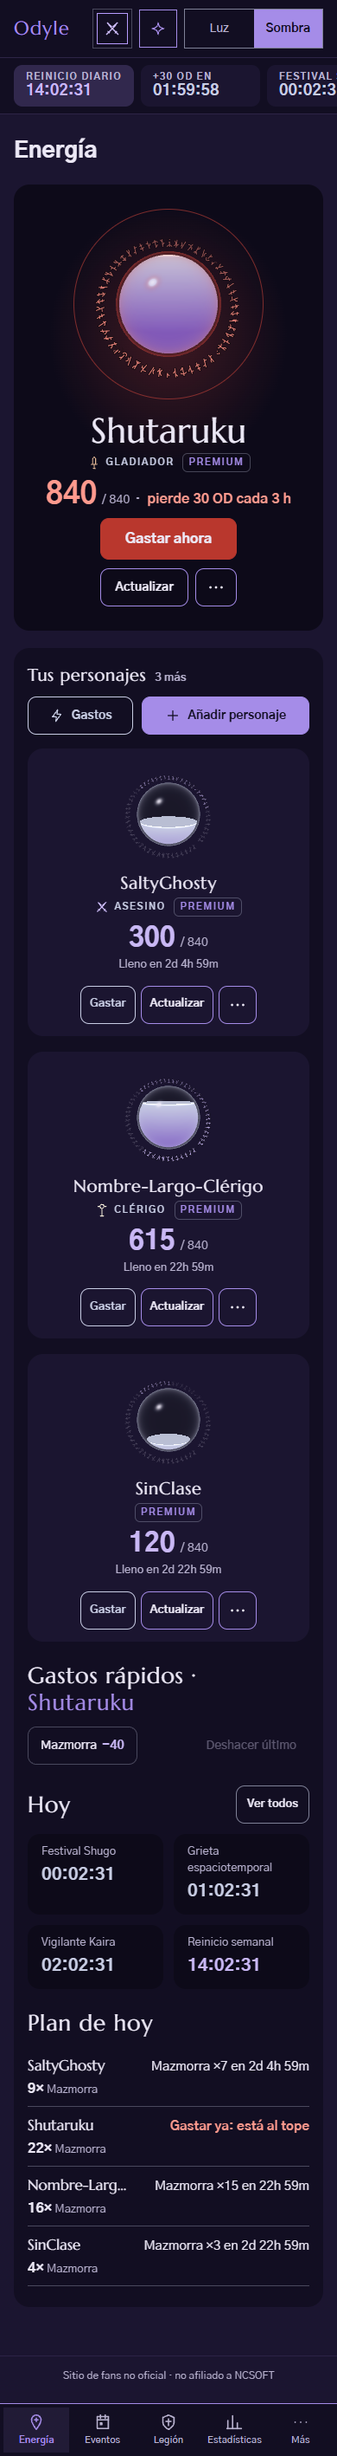
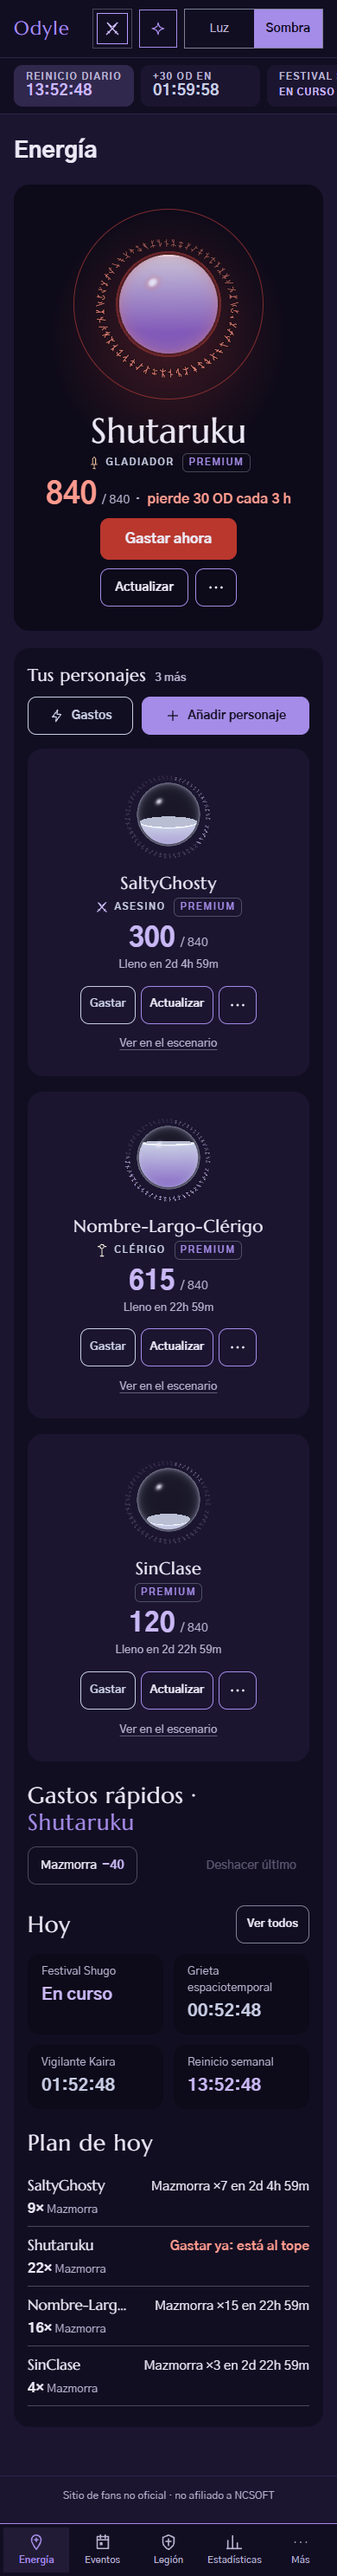
fix(energia): llevar una tarjeta al escenario con el teclado y atajos sobre el personaje del escenario

diff --git a/index.html b/index.html
@@ -227,6 +227,12 @@
   .card.tile .r-act button { min-height: 44px; padding: 0 10px; font-size: .8125rem; }
   .card.tile .r-act button.more-actions { min-width: 44px; padding: 0 10px; }
   .card.tile .r-below { width: 100%; text-align: left; }
+  /* quiet keyboard control: same as clicking the card */
+  button.to-stage { min-height: 44px; padding: 0 10px; margin-top: -4px; border: none; background: none; color: var(--muted); font-size: .8125rem; font-weight: 500;
+    text-decoration: underline; text-underline-offset: 3px; text-decoration-color: color-mix(in srgb, var(--muted) 45%, transparent); }
+  @media (hover: hover) and (pointer: fine) { button.to-stage:hover { color: var(--fg); background: none; } }
+  #stage-name:focus { outline: none; }
+  #stage-name:focus-visible { outline: 2px solid var(--sky); outline-offset: 4px; }
   @media (hover: hover) and (pointer: fine) { .card.tile:hover { background: color-mix(in srgb, var(--fg) 5%, var(--bg)); } }
   .who-sub { display: flex; flex-wrap: wrap; justify-content: center; align-items: center; gap: 4px 10px; }
   .who-sub:empty { display: none; }
@@ -1544,7 +1550,7 @@
         ...orbFor(row, { flat: flatOrb })));
 
     const text = el('div', { class: 'r-text' });
-    text.append(el('div', { class: 'who' }, el('h2', { class: 'name', title: row.name }, row.name),
+    text.append(el('div', { class: 'who' }, el('h2', { class: 'name', title: row.name, ...(stage ? { id: 'stage-name', tabindex: '-1' } : {}) }, row.name),
       el('div', { class: 'who-sub' }, cls ? el('p', { class: 'cls-name' }, classIcon(cls), cls.name) : null,
         row.account === 'premium' ? el('span', { class: 'acct-mark' }, 'Premium') : null)));
 
@@ -1666,7 +1672,9 @@
           ['Quitar', 'remove', () => { ui.pop = row.id; ui.confirmId = row.id; ui.editingId = ui.extraId = ui.notesId = null; render(); }],
         ]));
     }
-    if (!stage) { card.append(orb, text, num, meta, act, below); return card; }
+    // Keyboard way to do what a click on the card does (the article itself is not focusable).
+    const toStageBtn = readonly ? null : el('button', { type: 'button', class: 'to-stage', 'aria-label': `Ver en el escenario: ${row.name}`, onclick: () => toStage(row.id, { focus: true }) }, 'Ver en el escenario');
+    if (!stage) { card.append(orb, text, num, meta, act, below, toStageBtn); return card; }
     // Stage: «Gastar ahora» (red when someone is at the cap) leads to the quick spends of this character.
     const go = readonly || ui.readOnly || ui.noDb ? null
       : el('button', { type: 'button', class: `stage-go ${stage.tone === 'urgent' ? 'urgent' : ''}`, onclick: () => goSpend(row.id) }, 'Gastar ahora');
@@ -2575,9 +2583,15 @@
     if (e.target.closest('button, input, select, textarea, a, label, form, .menu-wrap, .r-below')) return;
     const card = e.target.closest('article[data-id]');
     if (!card) return;
-    ui.stageId = ui.selectedId = card.dataset.id;
-    if (animate && document.startViewTransition) document.startViewTransition(() => render()); else render();
+    toStage(card.dataset.id);
   });
+  // Put a character on the stage for this session; with focus, the stage name takes it (so Escape there is reachable).
+  function toStage(id, { focus = false } = {}) {
+    ui.stageId = ui.selectedId = id;
+    const done = () => { if (focus) $('stage-name')?.focus(); };
+    if (animate && document.startViewTransition) document.startViewTransition(() => render()).updateCallbackDone.then(done, done);
+    else { render(); done(); }
+  }
   $('stage').addEventListener('keydown', e => {
     if (e.key !== 'Escape' || !ui.stageId || e.target.closest('input, select, textarea, form, .menu-wrap')) return;
     e.preventDefault();
@@ -2602,7 +2616,7 @@
       const preset = state.presets[Number(e.key) - 1];
       if (!preset || !my || ui.readOnly || ui.noDb || activeTab !== 'personajes') return;
       const rows = buildView(state.characters, state.schedule, Date.now()).rows;
-      const row = rows.find(r => r.id === ui.selectedId) || rows[0];
+      const row = rows.find(r => r.id === ui.selectedId) || rows.find(r => r.id === stageNow?.id) || rows[0];
       if (!row) return;
       e.preventDefault();
       spend(row, preset);

diff --git a/i18n-strings.js b/i18n-strings.js
@@ -986,8 +986,8 @@ for (const l of Object.keys(TOPBAR)) for (const [k, v] of Object.entries(TOPBAR[
 
 // Energía «Engaste»: the stage and the character cards (2026-10-27).
 const ENERGIA = {
-  en: { '{0} más': '{0} more', '{0} está al tope': '{0} is at the cap', 'Gastar ahora': 'Spend now', Hoy: 'Today', 'Reinicio semanal': 'Weekly reset' },
-  it: { '{0} más': 'altri {0}', '{0} está al tope': '{0} è al limite', 'Gastar ahora': 'Spendi ora', Hoy: 'Oggi', 'Reinicio semanal': 'Reset settimanale' },
-  pt: { '{0} más': 'mais {0}', '{0} está al tope': '{0} está no limite', 'Gastar ahora': 'Gastar agora', Hoy: 'Hoje', 'Reinicio semanal': 'Reinício semanal' },
+  en: { '{0} más': '{0} more', '{0} está al tope': '{0} is at the cap', 'Gastar ahora': 'Spend now', Hoy: 'Today', 'Reinicio semanal': 'Weekly reset', 'Ver en el escenario': 'Show on stage', 'Ver en el escenario: {0}': 'Show on stage: {0}' },
+  it: { '{0} más': 'altri {0}', '{0} está al tope': '{0} è al limite', 'Gastar ahora': 'Spendi ora', Hoy: 'Oggi', 'Reinicio semanal': 'Reset settimanale', 'Ver en el escenario': 'Mostra sul palco', 'Ver en el escenario: {0}': 'Mostra sul palco: {0}' },
+  pt: { '{0} más': 'mais {0}', '{0} está al tope': '{0} está no limite', 'Gastar ahora': 'Gastar agora', Hoy: 'Hoje', 'Reinicio semanal': 'Reinício semanal', 'Ver en el escenario': 'Ver no palco', 'Ver en el escenario: {0}': 'Ver no palco: {0}' },
 };
 for (const l of Object.keys(ENERGIA)) for (const [k, v] of Object.entries(ENERGIA[l])) if (!(k in STRINGS[l])) STRINGS[l][k] = v;
